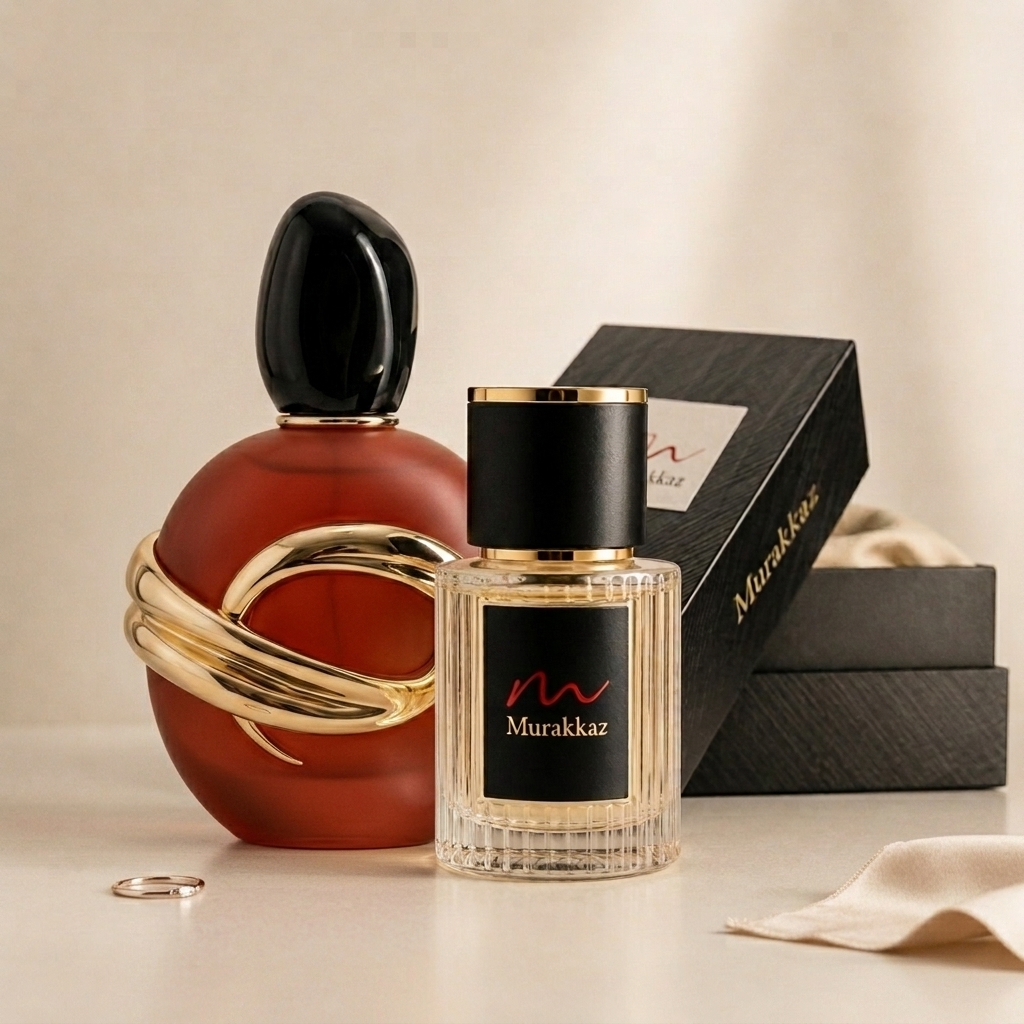
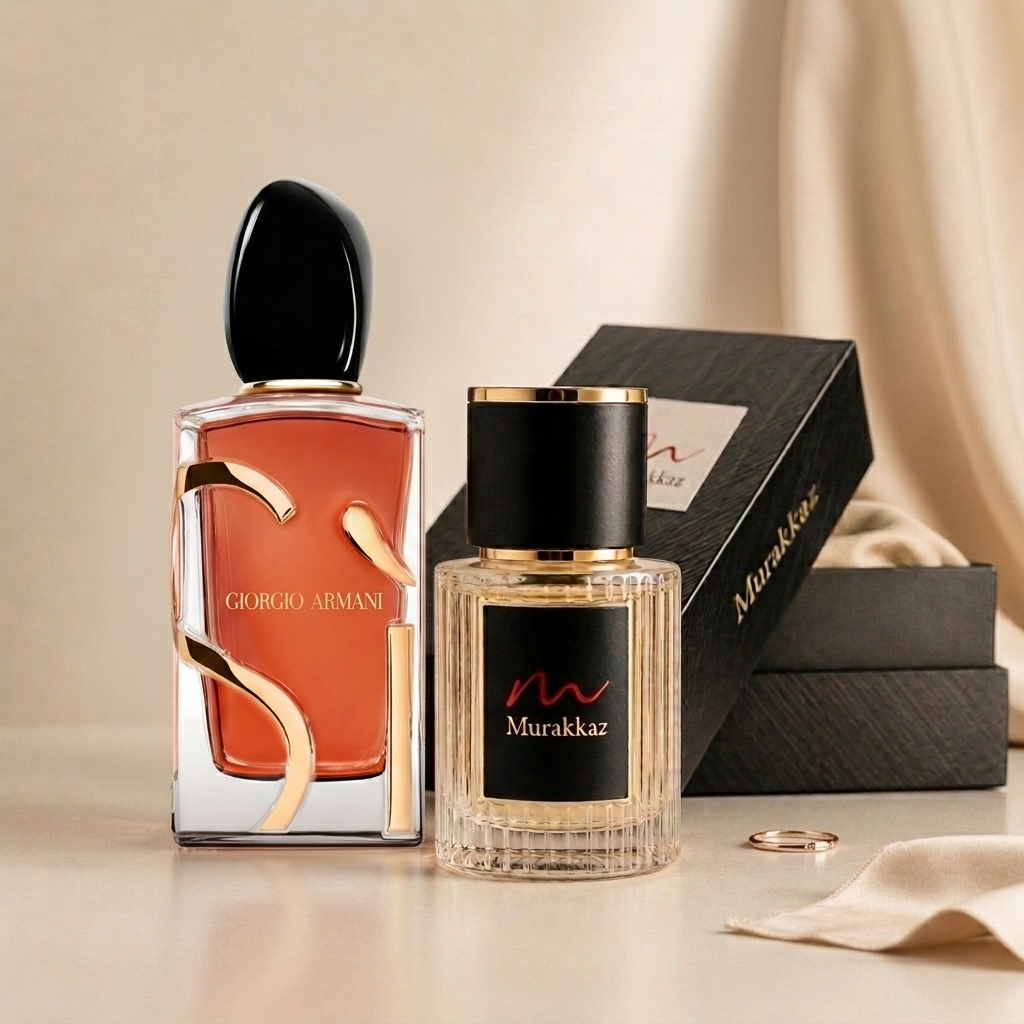
fix(catalog): update authentic Giorgio Armani Si Parfum bottle with sculpted gold ribbon design

diff --git a/App/src/app/data/products.ts b/App/src/app/data/products.ts
@@ -1721,7 +1721,7 @@ export const luxuryProducts: Product[] = [
     "priceVal": 300,
     "originalPriceVal": 400,
     "volume": "6ml - 50ml",
-    "image": "/images/products/si_parfum_v3.jpg",
+    "image": "/images/products/si_parfum_v4.jpg",
     "family": "FLORAL",
     "gender": "WOMEN",
     "occasion": "Romantic & Daytime",
